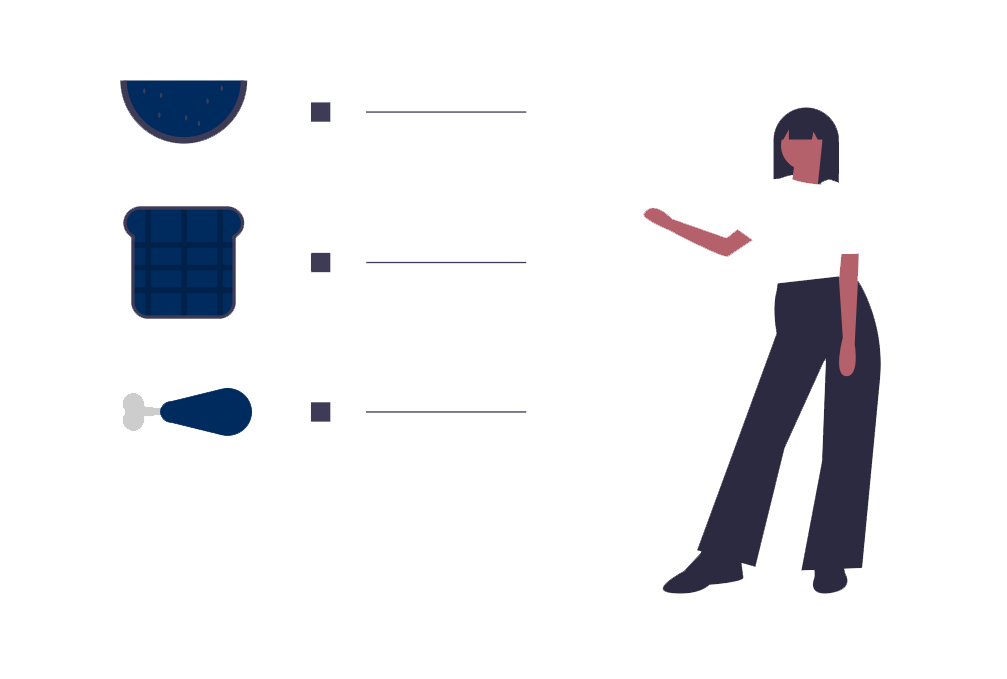
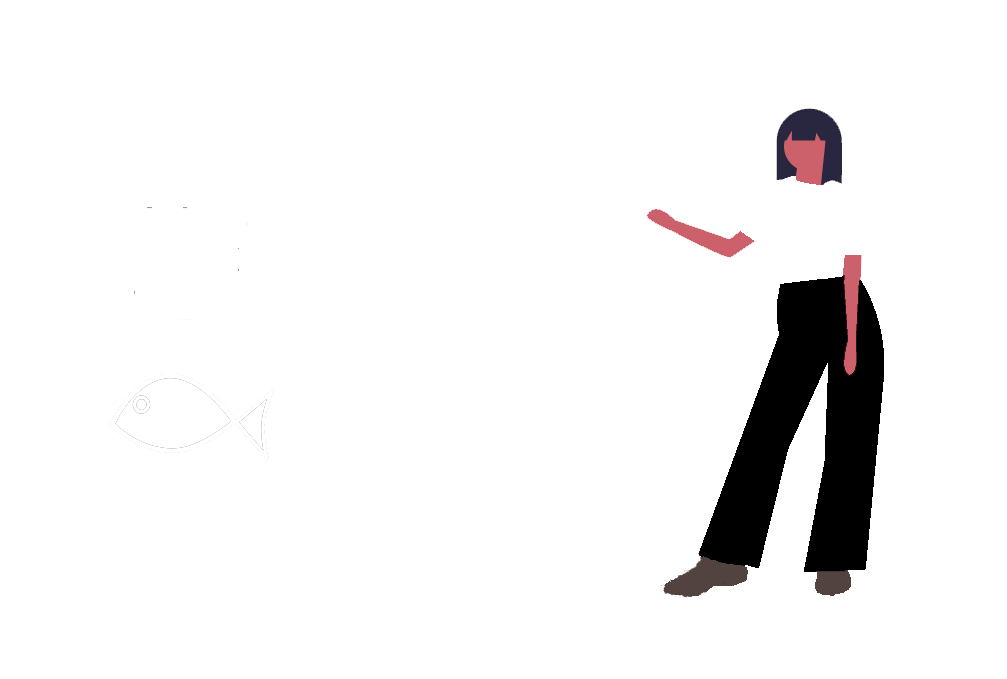
imagen cambiada / empieza el footer

diff --git a/css/main.css b/css/main.css
@@ -23,12 +23,13 @@ header nav{
     display: flex;
     justify-content: space-around;
     align-items: center;
-    min-height: 8vh;
+    /* min-height: 8vh; */
     background-color:var(--color-azul);
     position: fixed;
     top: 0;
     z-index: 1;
     width: 100%;
+    height: 87px;
 }
 .contenedor-img{
     display: flex;
@@ -466,6 +467,7 @@ body{
     font-size: 1.3em;
     letter-spacing: 1px;
     line-height: 40px;
+
 }
 
 .contenedor-pbal p{
@@ -522,5 +524,15 @@ body{
     .contenedor-pbal p{
         width: 100vh;
         padding: 10px 0;
+    }
+}
+
+@media screen and (max-width:551px){
+
+    .img-balanza img{
+        width: 40%;
+    }
+    .contenedor-pbal{
+        font-size: 15px;
     }
 }

diff --git a/index.html b/index.html
@@ -65,7 +65,7 @@
     <!-- Titulo Parrafo -->
     <main class="contenedor-main">
         <div class="contenedor-img">
-            <img class="diet-img" src="imagenes/diet-blanco-edit.png" alt="dieta">
+            <img class="diet-img" src="imagenes/diet-azulsinfondo.png" alt="dieta">
         </div>
         <div class="contenedor-titulo">
             <h1>Silvia Alejandra</h1>
@@ -109,6 +109,7 @@
         </div>
     </section>
 
+    
 
     <script src="js/main.js"></script>
 </body>
